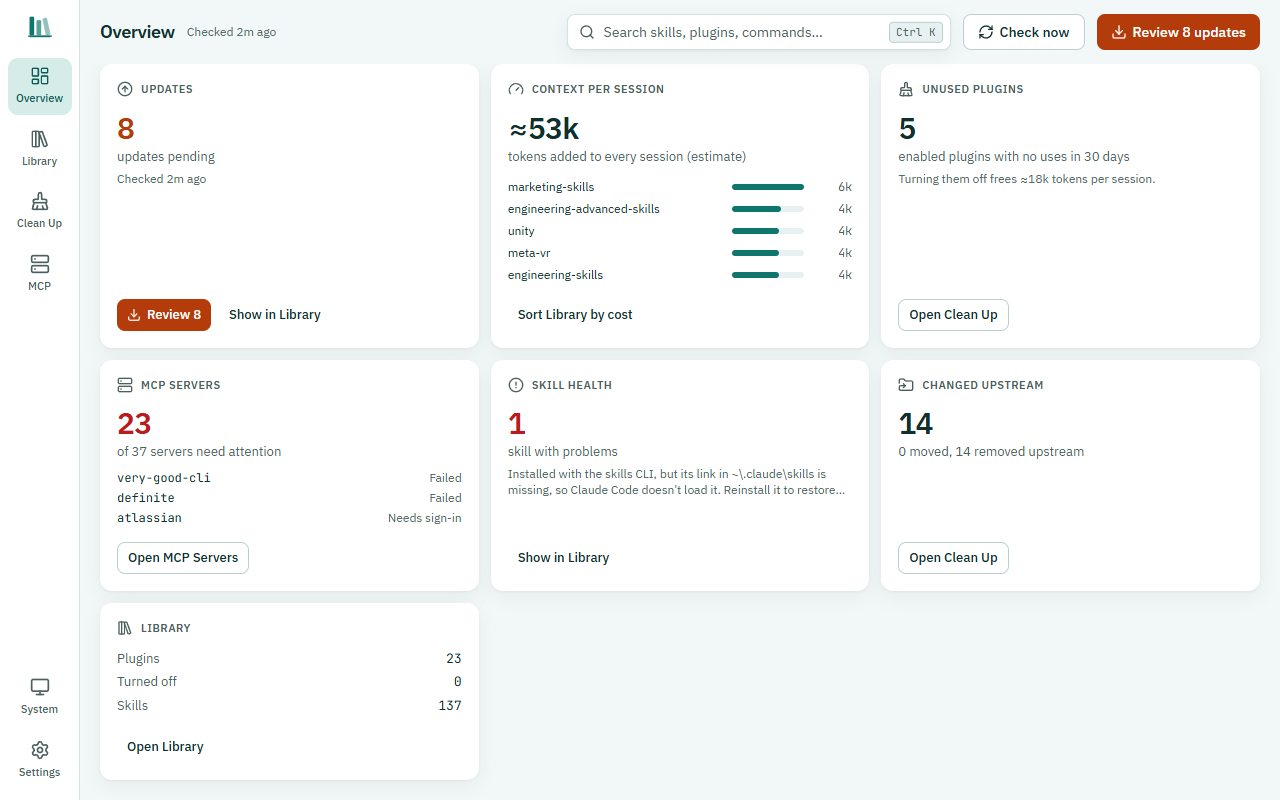
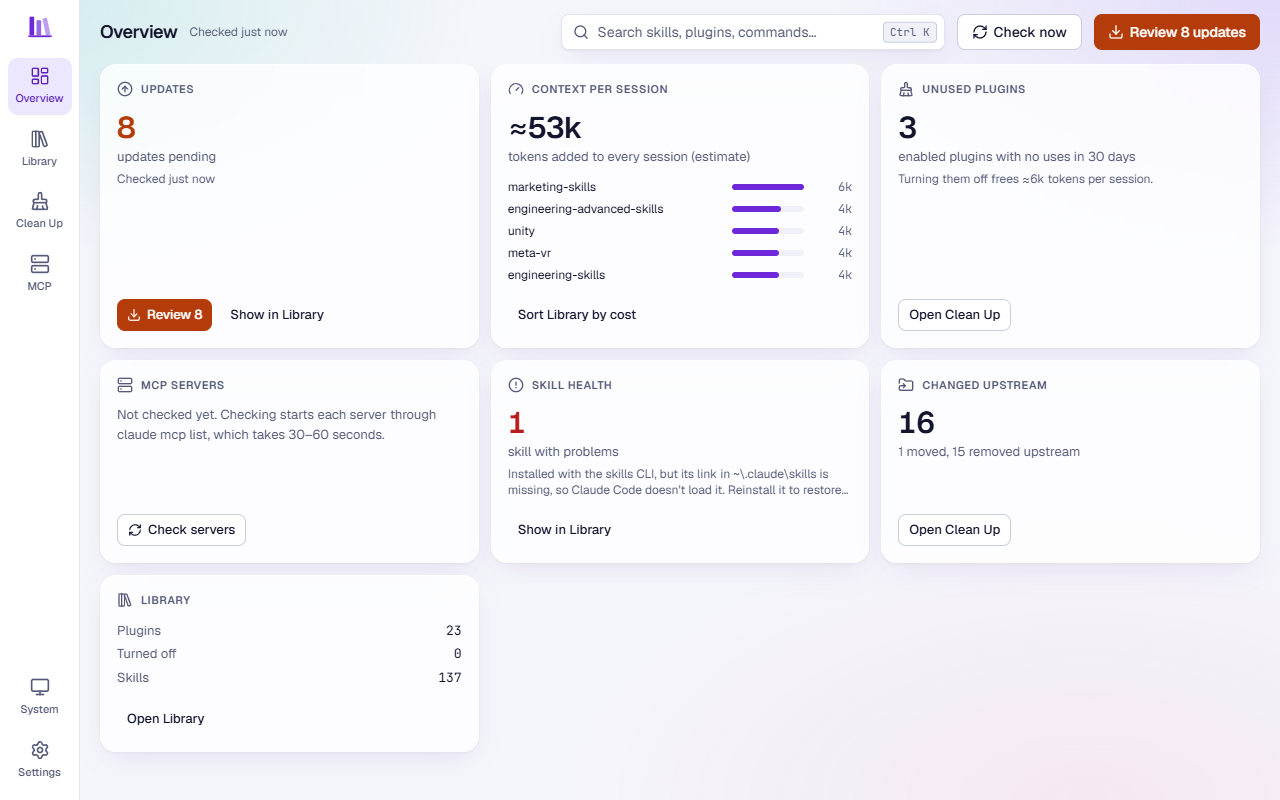
Restyle Workbench as Aurora: violet gradient, glow, frosted cards, Geist
- Workbench tokens move from teal to violet (light and dark). New
  Workbench-only tokens: --accent-grad, --accent-glow, --veil, --glass and
  --glow, read by [data-palette="workbench"] rules for the canvas glow,
  gradient primary buttons (.btn-primary) and frosted cards (.card).
  Other palettes stay flat.
- Geist replaces IBM Plex Sans; cards are 16px (rounded-2xl) everywhere.
- contrast.mjs merges blocks per theme like the cascade, and checks
  accent-fg on every --accent-grad stop and midpoint.
- MASTER.md, changelog and README screenshots updated.

diff --git a/src/index.css b/src/index.css
@@ -2,60 +2,78 @@
 
 /* Semantic tokens. Components use these via Tailwind (bg-surface, text-muted, …), never raw hex. */
 
-/* Workbench (design-system/skillshelf/MASTER.md): teal primary, orange for updates, soft tinted canvas with white cards.
-   Every text pair is checked at 4.5:1 or better, including chips on their own 10-12% tints. */
+/* Workbench, "Aurora" (design-system/skillshelf/MASTER.md): violet primary with a violet-to-teal gradient, orange for
+   updates, a faint glow on the canvas and frosted cards. Every text pair is checked at 4.5:1 or better, including chips
+   on their own 10-12% tints and accent-fg on every gradient stop.
+   --accent-grad, --accent-glow, --veil, --glass and --glow are only read by the Workbench rules further down. */
 :root,
 [data-palette="workbench"] {
   color-scheme: light;
-  --bg: #f2f7f7;
+  --bg: #f5f6fb;
   --surface: #ffffff;
-  --surface-2: #e8f1f1;
-  --surface-hover: #e0eceb;
-  --border: #d3e3e2;
-  --border-strong: #b9d0ce;
-  --fg: #10302d;
-  --muted: #4b5f5d;
-  --accent: #0f766e;
-  --accent-hover: #115e59;
+  --surface-2: #eff0f8;
+  --surface-hover: #e9ebf7;
+  --border: #e2e4f0;
+  --border-strong: #c9cde2;
+  --fg: #13142e;
+  --muted: #545a78;
+  --accent: #6d28d9;
+  --accent-hover: #5b21b6;
   --accent-fg: #ffffff;
   --warn: #b43c0a;
   --warn-hover: #9a330a;
   --warn-fg: #ffffff;
   --danger: #b91c1c;
   --info: #3b5b7a;
-  --ring: #0f766e;
-  --nav-active: #d5ece9;
-  --nav-active-fg: #0b5a54;
-  --card-border: transparent;
-  --card-shadow: 0 1px 2px rgb(16 48 45 / 0.06), 0 6px 20px rgb(16 48 45 / 0.05);
-  --scrim: rgb(16 48 45 / 0.4);
+  --ring: #7c3aed;
+  --nav-active: #ede7fd;
+  --nav-active-fg: #5b21b6;
+  --card-border: rgb(255 255 255 / 0.7);
+  --card-shadow: 0 1px 2px rgb(19 20 46 / 0.05), 0 10px 30px -6px rgb(76 29 149 / 0.1);
+  --scrim: rgb(19 20 46 / 0.4);
+  --accent-grad: linear-gradient(135deg, #7c3aed, #5b4be0 45%, #0f766e);
+  --accent-glow: 0 6px 18px -4px rgb(124 58 237 / 0.45);
+  --veil: rgb(0 0 0 / 0.12);
+  --glass: 78%;
+  --glow:
+    radial-gradient(55% 45% at 0% 0%, rgb(20 184 166 / 0.16), transparent 70%),
+    radial-gradient(50% 45% at 100% 0%, rgb(139 92 246 / 0.18), transparent 70%),
+    radial-gradient(60% 50% at 85% 100%, rgb(236 72 153 / 0.08), transparent 70%);
 }
 
 :root[data-theme="dark"],
 [data-palette="workbench"][data-theme="dark"] {
   color-scheme: dark;
-  --bg: #0a1413;
-  --surface: #0f1d1c;
-  --surface-2: #152625;
-  --surface-hover: #1a2e2c;
-  --border: #1f3533;
-  --border-strong: #2c4744;
-  --fg: #e6f2f1;
-  --muted: #93afac;
-  --accent: #2dd4bf;
-  --accent-hover: #5eead4;
-  --accent-fg: #04211e;
+  --bg: #07081a;
+  --surface: #11132b;
+  --surface-2: #171a37;
+  --surface-hover: #1e2244;
+  --border: #242850;
+  --border-strong: #363c6c;
+  --fg: #eceefe;
+  --muted: #a4a9d0;
+  --accent: #a78bfa;
+  --accent-hover: #c4b5fd;
+  --accent-fg: #140a32;
   --warn: #fb923c;
   --warn-hover: #fdba74;
   --warn-fg: #1c0a02;
   --danger: #f87171;
   --info: #93b4d4;
-  --ring: #5eead4;
-  --nav-active: #163733;
-  --nav-active-fg: #5eead4;
-  --card-border: #1f3533;
-  --card-shadow: 0 1px 2px rgb(0 0 0 / 0.4), 0 6px 20px rgb(0 0 0 / 0.25);
-  --scrim: rgb(1 8 7 / 0.7);
+  --ring: #c4b5fd;
+  --nav-active: #241d4f;
+  --nav-active-fg: #c4b5fd;
+  --card-border: rgb(255 255 255 / 0.07);
+  --card-shadow: 0 1px 2px rgb(0 0 0 / 0.5), 0 12px 32px -8px rgb(0 0 0 / 0.5);
+  --scrim: rgb(3 3 12 / 0.72);
+  --accent-grad: linear-gradient(135deg, #c4b5fd, #a78bfa 45%, #5eead4);
+  --accent-glow: 0 6px 22px -4px rgb(167 139 250 / 0.45);
+  --veil: rgb(255 255 255 / 0.16);
+  --glass: 72%;
+  --glow:
+    radial-gradient(50% 45% at 0% 0%, rgb(45 212 191 / 0.13), transparent 70%),
+    radial-gradient(55% 50% at 100% 0%, rgb(139 92 246 / 0.26), transparent 70%),
+    radial-gradient(60% 50% at 80% 100%, rgb(236 72 153 / 0.1), transparent 70%);
 }
 
 /* Graphite: neutral zinc surfaces and a monochrome accent, so orange updates are the only colour. */
@@ -293,7 +311,7 @@
   --color-nav-active-fg: var(--nav-active-fg);
   --color-card-border: var(--card-border);
   --shadow-card: var(--card-shadow);
-  --font-sans: "IBM Plex Sans", ui-sans-serif, system-ui, sans-serif;
+  --font-sans: "Geist", ui-sans-serif, system-ui, sans-serif;
   --font-mono: "JetBrains Mono", ui-monospace, "Cascadia Code", monospace;
 }
 
@@ -324,6 +342,26 @@ button:not(:disabled),
 summary,
 label[for] {
   cursor: pointer;
+}
+
+/* Workbench only: the canvas glow, gradient primary buttons and frosted cards. Other palettes stay flat. */
+:root[data-palette="workbench"] body {
+  background-image: var(--glow);
+  background-attachment: fixed;
+}
+
+[data-palette="workbench"] .btn-primary {
+  background-image: var(--accent-grad);
+  box-shadow: var(--accent-glow), inset 0 1px 0 rgb(255 255 255 / 0.25);
+}
+
+[data-palette="workbench"] .btn-primary:hover:enabled {
+  background-image: linear-gradient(var(--veil), var(--veil)), var(--accent-grad);
+}
+
+[data-palette="workbench"] .card {
+  background-color: color-mix(in srgb, var(--surface) var(--glass), transparent);
+  backdrop-filter: blur(20px) saturate(1.4);
 }
 
 ::selection {

diff --git a/src/components/ui.tsx b/src/components/ui.tsx
@@ -22,7 +22,7 @@ import type { Kind, Status } from "../types";
 type Variant = "primary" | "update" | "secondary" | "ghost" | "danger";
 
 /** A floating surface on the tinted canvas: lists, panels, overview tiles. */
-export const card = "rounded-xl border border-card-border bg-surface shadow-card";
+export const card = "card rounded-2xl border border-card-border bg-surface shadow-card";
 
 export function Button({
   variant = "secondary",
@@ -38,7 +38,7 @@ export function Button({
         "inline-flex shrink-0 items-center justify-center gap-1.5 rounded-lg font-medium whitespace-nowrap transition-colors duration-150",
         "disabled:cursor-not-allowed disabled:opacity-50",
         size === "sm" ? "h-8 px-2.5 text-[13px]" : "h-9 px-3.5 text-sm",
-        variant === "primary" && "bg-accent text-accent-fg hover:enabled:bg-accent-hover",
+        variant === "primary" && "btn-primary bg-accent text-accent-fg hover:enabled:bg-accent-hover",
         variant === "update" && "bg-warn text-warn-fg hover:enabled:bg-warn-hover",
         variant === "secondary" && "border border-border-strong bg-surface text-fg hover:enabled:bg-surface-hover",
         variant === "ghost" && "text-fg hover:enabled:bg-surface-hover",

diff --git a/src/main.tsx b/src/main.tsx
@@ -1,8 +1,8 @@
 import React from "react";
 import ReactDOM from "react-dom/client";
-import "@fontsource/ibm-plex-sans/400.css";
-import "@fontsource/ibm-plex-sans/500.css";
-import "@fontsource/ibm-plex-sans/600.css";
+import "@fontsource/geist/400.css";
+import "@fontsource/geist/500.css";
+import "@fontsource/geist/600.css";
 import "@fontsource/jetbrains-mono/400.css";
 import "@fontsource/jetbrains-mono/500.css";
 import "./index.css";

diff --git a/design-system/skillshelf/MASTER.md b/design-system/skillshelf/MASTER.md
@@ -6,16 +6,16 @@
 ---
 
 **Project:** Skillshelf
-**Direction:** Workbench (chosen 2026-10-31, replaces the v0.1 "code dark + run green" dashboard)
-**Source:** ui-ux-pro-max: *Productivity Tool* palette (teal focus + action orange), *Minimalism & Swiss Style* structure, IBM Plex type. Colours adjusted so every text pair passes WCAG AA.
-**Dials:** Variance 3 (calm, balanced) · Motion 2 (subtle) · Density 7 (dense list, roomy chrome)
+**Direction:** Workbench "Aurora" (chosen 2026-11-01, restyles the 2026-10-31 teal Workbench, which replaced the v0.1 "code dark + run green" dashboard)
+**Source:** ui-ux-pro-max: *Aurora UI* glow and gradient, a light *Glassmorphism* card, *Minimalism & Swiss Style* structure, Geist type. Colours adjusted so every text pair passes WCAG AA.
+**Dials:** Variance 4 (calm, a little expressive) · Motion 2 (subtle) · Density 7 (dense list, roomy chrome)
 
 ---
 
 ## Principles
 
-- **A tinted canvas with floating white cards.** The window background is a soft teal-grey. Content (the list, details, overview tiles, the queue) sits on white cards with a soft shadow. In dark mode, cards get a hairline border instead, because shadows don't read on dark.
-- **Teal is for action and place.** It marks primary buttons, the active rail item, links and focus.
+- **A glowing canvas with frosted cards.** The window background has three faint glows (teal top-left, violet top-right, pink bottom-right). Content (the list, details, overview tiles, the queue) sits on frosted cards: the surface colour at 78% (72% in dark) with a 20px backdrop blur, a soft shadow and a hairline edge. The glow, the gradient and the glass belong to Workbench only; the other palettes stay flat and opaque.
+- **Violet is for action and place.** It marks the active rail item, links, switches and focus. Primary buttons use the violet-to-teal gradient with a soft violet glow.
 - **Orange means "update".** Use it only for update status, update buttons and update risk flags, so a pending update is the one warm thing on screen.
 - **Status is never colour alone.** Every chip has an icon and text. Every chart has a text alternative (`role="img"` plus `aria-label`).
 - **Components use semantic tokens only** (`bg-surface`, `text-muted`, `bg-warn`…), never raw hex.
@@ -26,44 +26,54 @@ Five palettes, each with a light and a dark block in `src/index.css` that define
 
 | Palette | Accent | Notes |
 |---|---|---|
-| Workbench | teal | Default |
+| Workbench | violet, violet-to-teal gradient | Default. Glow, gradient primary buttons and frosted cards |
 | Graphite | near-black / near-white | Monochrome, so orange updates are the only colour |
-| Indigo | indigo | Cool slate surfaces |
+| Indigo | indigo | Cool slate surfaces, flat. Close to Workbench in colour |
 | Rose | rose | Updates use amber so they stay distinct from the accent |
 | High contrast | dark blue / sky | 7:1 text, hard borders instead of shadows, inverted active rail item |
 
-`node scripts/contrast.mjs` (part of `make check` and CI) checks every text pair of every theme, including chips on their own 12% tints.
+`node scripts/contrast.mjs` (part of `make check` and CI) checks every text pair of every theme, including chips on their own 12% tints, and `--accent-fg` on every `--accent-grad` stop and halfway between stops.
 
 ## Tokens (`src/index.css`)
 
+Workbench values:
+
 | Token | Light | Dark | Use |
 |---|---|---|---|
-| `--bg` | `#F2F7F7` | `#0A1413` | Window canvas |
-| `--surface` | `#FFFFFF` | `#0F1D1C` | Cards, rail, dialogs |
-| `--surface-2` | `#E8F1F1` | `#152625` | Wells, code, skeletons |
-| `--surface-hover` | `#E0ECEB` | `#1A2E2C` | Hover fill |
-| `--border` / `--border-strong` | `#D3E3E2` / `#B9D0CE` | `#1F3533` / `#2C4744` | Dividers / control outlines |
-| `--card-border` | transparent | `#1F3533` | Card edge |
-| `--fg` | `#10302D` | `#E6F2F1` | Text |
-| `--muted` | `#4B5F5D` | `#93AFAC` | Secondary text (≥5.9:1 on every surface) |
-| `--accent` (+`-hover`, `-fg`) | `#0F766E` / `#FFFFFF` | `#2DD4BF` / `#04211E` | Primary action, active, links, focus |
+| `--bg` | `#F5F6FB` | `#07081A` | Window canvas |
+| `--surface` | `#FFFFFF` | `#11132B` | Cards, rail, dialogs |
+| `--surface-2` | `#EFF0F8` | `#171A37` | Wells, code, skeletons |
+| `--surface-hover` | `#E9EBF7` | `#1E2244` | Hover fill |
+| `--border` / `--border-strong` | `#E2E4F0` / `#C9CDE2` | `#242850` / `#363C6C` | Dividers / control outlines |
+| `--card-border` | white 70% | white 7% | Card edge |
+| `--fg` | `#13142E` | `#ECEEFE` | Text |
+| `--muted` | `#545A78` | `#A4A9D0` | Secondary text |
+| `--accent` (+`-hover`, `-fg`) | `#6D28D9` / `#FFFFFF` | `#A78BFA` / `#140A32` | Active, links, focus, solid primary |
 | `--warn` (+`-hover`, `-fg`) | `#B43C0A` / `#FFFFFF` | `#FB923C` / `#1C0A02` | Updates only |
 | `--danger` | `#B91C1C` | `#F87171` | Destructive, failures |
 | `--info` | `#3B5B7A` | `#93B4D4` | Managed, neutral info |
-| `--nav-active` / `-fg` | `#D5ECE9` / `#0B5A54` | `#163733` / `#5EEAD4` | Active rail item |
-| `--card-shadow` | soft teal-tinted | deep black | Cards |
+| `--nav-active` / `-fg` | `#EDE7FD` / `#5B21B6` | `#241D4F` / `#C4B5FD` | Active rail item |
+| `--card-shadow` | soft violet-tinted | deep black | Cards |
 
-Contrast was checked with a script: text on surfaces is 5.9–16:1, button text 5.2–9.1:1, and chip text on its own 10–12% tint is 4.8–7.7:1.
+Workbench-only style tokens, read by the `[data-palette="workbench"]` rules in `src/index.css`:
+
+| Token | Light | Dark | Use |
+|---|---|---|---|
+| `--accent-grad` | `#7C3AED` → `#5B4BE0` → `#0F766E` | `#C4B5FD` → `#A78BFA` → `#5EEAD4` | Primary buttons (`.btn-primary`), 135° |
+| `--accent-glow` | violet, 45% | lavender, 45% | Primary button shadow |
+| `--veil` | black 12% | white 16% | Laid over the gradient on hover; keeps or raises text contrast |
+| `--glass` | 78% | 72% | Card opacity (`.card`) |
+| `--glow` | teal / violet / pink, 8–18% | teal / violet / pink, 10–26% | Canvas background |
 
 ## Type
 
-- **UI:** IBM Plex Sans, 14px base, 13px in dense rows, 11px uppercase for section labels (tracking 0.06em).
-- **Code, versions, ids, paths, token counts:** JetBrains Mono, 11–12px. JetBrains Mono was already bundled, so it stays instead of Plex Mono.
+- **UI:** Geist, 14px base, 13px in dense rows, 11px uppercase for section labels (tracking 0.06em). Applies to every palette.
+- **Code, versions, ids, paths, token counts:** JetBrains Mono, 11–12px.
 - Headings are semibold with slight negative tracking. Page title 18px.
 
 ## Shape and spacing
 
-- Radius: cards 12px (`rounded-xl`), controls 8px (`rounded-lg`), chips fully rounded.
+- Radius: cards 16px (`rounded-2xl`), controls 8px (`rounded-lg`), chips fully rounded.
 - Page gutter 20px. Gaps between cards 12px. Card padding 16px (lists use 16px side padding per row).
 - Rail 80px: icon (20px) above an 11px label. The active item uses the nav-active fill.
 
@@ -86,10 +96,10 @@ Contrast was checked with a script: text on surfaces is 5.9–16:1, button text 
 
 ## Components
 
-- **Buttons:** `primary` (teal), `update` (orange, for update actions only), `secondary` (white with an outline), `ghost`, `danger` (outline). Heights 36 and 32.
+- **Buttons:** `primary` (accent; the violet-to-teal gradient on Workbench), `update` (orange, for update actions only), `secondary` (white with an outline), `ghost`, `danger` (outline). Heights 36 and 32.
 - **Status chip:** icon + label, tinted background, 1px tinted border.
 - **Charts:** inline SVG sparklines and bars in `--accent`. Each has a text alternative such as "41 uses in the last 30 days".
-- **Dialogs:** a card on a teal-tinted scrim. Focus is trapped and returns to where it was. Escape closes.
+- **Dialogs:** a card on a tinted scrim. Focus is trapped and returns to where it was. Escape closes.
 
 ## Motion
 
@@ -101,3 +111,4 @@ Contrast was checked with a script: text on surfaces is 5.9–16:1, button text 
 - Colour-only status, or icon-only buttons without `aria-label`.
 - Raw hex in components.
 - Shadows in dark mode instead of borders.
+- Glow, gradients or glass outside Workbench's own rules, or on text.

diff --git a/CHANGELOG.md b/CHANGELOG.md
@@ -6,6 +6,11 @@ Each version's section is also its GitHub release notes and the "What's new" tex
 
 ## [Unreleased]
 
+### Changed
+
+- A new look for the default Workbench theme: violet with a violet-to-teal gradient on main buttons, a soft glow behind the window, and frosted cards. The other themes keep their flat style.
+- The interface font is now Geist, and cards have rounder corners, in every theme.
+
 ## [0.3.0] - 2026-11-01
 
 ### Added
